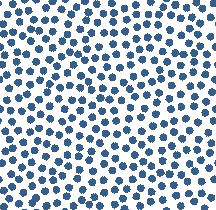
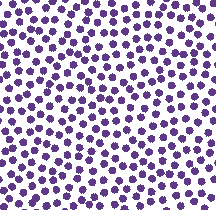
show pages for courses

diff --git a/app/assets/stylesheets/nav.css.scss b/app/assets/stylesheets/nav.css.scss
@@ -1,7 +1,11 @@
 // // colors
 // #22555f dk blue green
-// #385e88 dots
-//#96bde6 dots pale pale
+// #385e88 dots fb blue
+//#613888 dots purple
+// #47b5ca lt blue green
+//#ff8cc2 pink
+//#8e70b3 mauve
+//#96bde6 dots fb blu pale pale
 .navbar, .navbar-inverse{
 	color: #fdfbee;
 	background-color: #22555f;
@@ -13,13 +17,14 @@ margin-bottom: 0;
 height: 100px;
 }
 
-.nav a,  .navbar-nav a, .navbar-right a, .collapse a, .navbar-collapse a{
-	color: #8ab2cd !important;
+.nav a,  .navbar-nav a, .navbar-right a, .collapse a, .navbar-collapse a, #footer a{
+	color: #47b5ca !important;
+	&:hover{
+		color: #fff;
+	}
 }
 
-.nav a:hover,  .navbar-nav a:hover, .navbar-right a:hover, .collapse a:hover, .navbar-collapse a:hover{
-	color: #fff !important;
-}
+
 .navbar-brand{
 	color: #fff !important;
 	font-size: 2em;
@@ -28,4 +33,21 @@ height: 100px;
 	font-weight: 700;
 	font-style: italic;
 
+}
+.btn, .btn-primary, .btn-large{
+	background-color: #613888;
+	border: none;
+	&:hover{
+		background-color: #22555f;
+	}
+	
+} 
+
+@media (max-width: 750px) {
+	.navbar-collapse .collapse .in, #bs-example-navbar-collapse-1{
+	margin-top: 10px;
+	border-top: none;
+	background-color: #fff;
+	 & a:hover{color: #4655b5;}
+	}
 }

diff --git a/app/assets/stylesheets/master.css.scss b/app/assets/stylesheets/master.css.scss
@@ -1,9 +1,11 @@
 // // colors
 // #22555f dk blue green
-// #385e88 dots
-
-
-
+// #385e88 dots fb blue
+//#613888 dots purple
+// #47b5ca lt blue green
+//#ff8cc2 pink
+//#8e70b3 mauve
+//#96bde6 dots fb blu pale pale
 
 
 *{
@@ -21,11 +23,20 @@ body{
 	line-height: 1.8;
 	height: 100%;
 }
+a{
+	color: #47b5ca !important;
+}
 h1, h2, h3, h4, h5{
 	font-family: Alegreya, Georgia, serif;
 	font-weight: 700;
 	color: #385e88;
 }
+.label, .label-default{
+	background-color: #47b5ca;
+	padding: 1em;
+}
+
+
 #wrap {
 	$footer-height: 100px;
   // min-height: 100%;
@@ -42,4 +53,11 @@ h1, h2, h3, h4, h5{
   margin-bottom: 0.75em;
   padding: 2em;
   border: 1px solid #fff;
+}
+
+.notice, .alert{
+	padding: 20px;
+	display: block;
+	margin: 0 auto;
+	
 }

diff --git a/app/controllers/courses_controller.rb b/app/controllers/courses_controller.rb
@@ -1,7 +1,11 @@
 class CoursesController < ApplicationController
-
+# for students
 	def index
 		@courses = Course.all
+	end
+
+	def show
+		 @course = Course.find(params[:id])
 	end
 	
 end
